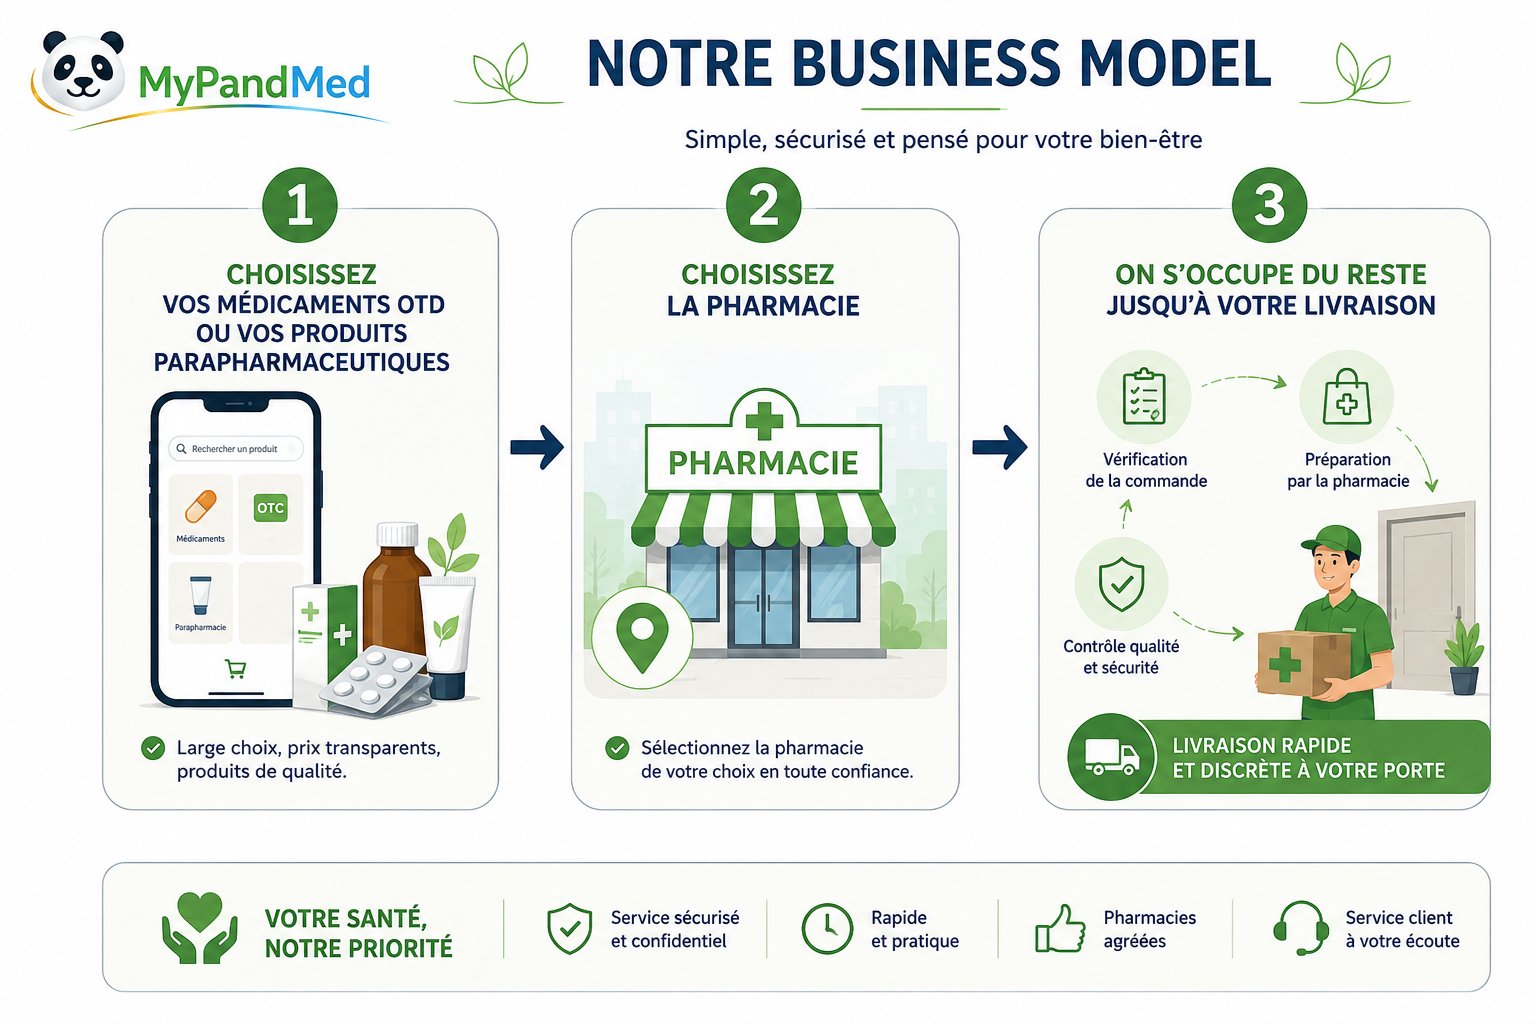
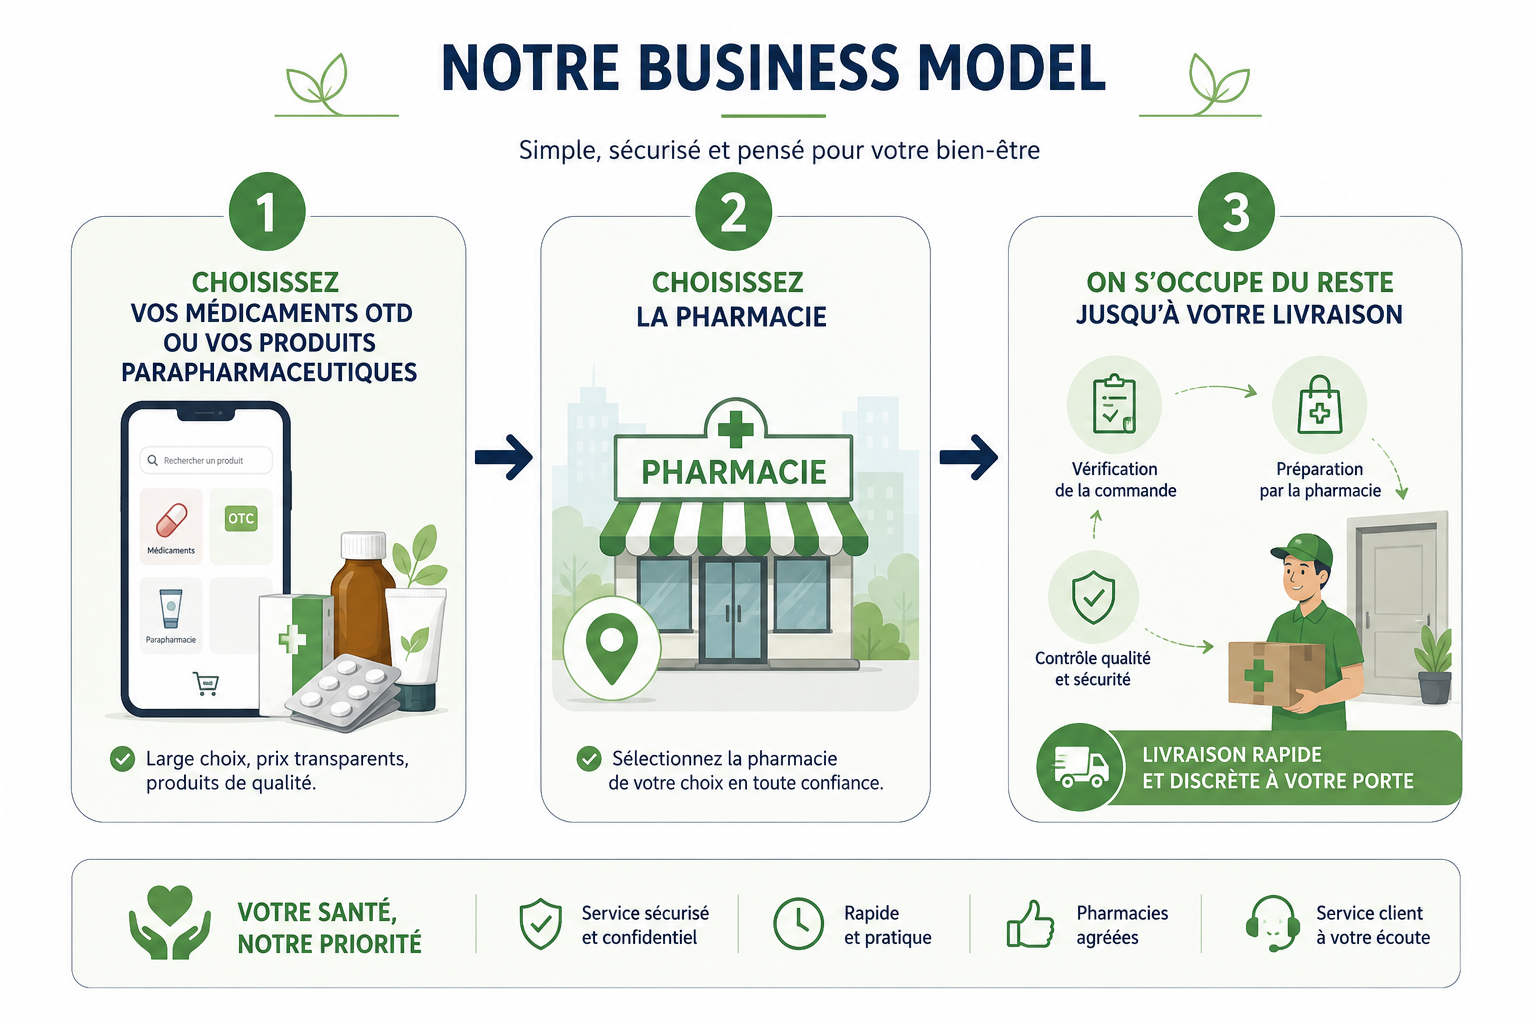
Ajuste la page d'accueil et met a jour le fond

diff --git a/client/src/styles.css b/client/src/styles.css
@@ -299,55 +299,14 @@ select {
   gap: 18px;
 }
 
-.store-hero h1 {
-  margin: 0;
-  font-size: clamp(28px, 3.8vw, 56px);
-  line-height: 1.12;
-  color: #ffffff;
-  text-align: left;
-  letter-spacing: -0.03em;
-  text-shadow: 0 18px 36px rgba(7, 27, 60, 0.42);
-}
-
-.store-hero-subtitle {
-  margin: 0;
-  max-width: 720px;
-  font-size: clamp(15px, 1.8vw, 24px);
-  font-weight: 700;
-  line-height: 1.28;
-  color: rgba(255, 255, 255, 0.96);
-  text-align: left;
-  letter-spacing: -0.02em;
-  text-shadow: 0 14px 30px rgba(7, 27, 60, 0.32);
-}
-
 .store-hero-visual {
   min-height: min(82vh, 980px);
-  padding: clamp(22px, 3vw, 38px);
   border-radius: 34px;
-  display: grid;
-  align-items: end;
   background:
-    linear-gradient(180deg, rgba(8, 31, 76, 0.12), rgba(8, 31, 76, 0.46)),
+    linear-gradient(180deg, rgba(255, 255, 255, 0.04), rgba(255, 255, 255, 0.16)),
     url("/home-business-model.png") center top/cover no-repeat;
   box-shadow: 0 24px 52px rgba(5, 16, 42, 0.18);
   overflow: hidden;
-}
-
-.store-hero-overlay {
-  width: min(100%, 760px);
-  padding: clamp(18px, 2.4vw, 28px);
-  border-radius: 28px;
-  display: grid;
-  gap: 18px;
-  background: linear-gradient(180deg, rgba(9, 33, 80, 0.34), rgba(8, 31, 76, 0.64));
-  backdrop-filter: blur(6px);
-  box-shadow: 0 18px 40px rgba(5, 16, 42, 0.22);
-}
-
-.store-hero-copy {
-  display: grid;
-  gap: 10px;
 }
 
 .hero-start-button,
@@ -361,7 +320,7 @@ select {
 
 .hero-start-button {
   min-height: 56px;
-  width: fit-content;
+  min-width: 220px;
   padding: 0 28px;
   border-radius: 18px;
   background: linear-gradient(180deg, #2e7ae2 0%, #1f5fb2 55%, #163f7f 100%);
@@ -1559,32 +1518,8 @@ select {
 
   .store-hero-visual {
     min-height: 60vh;
-    padding: 14px;
     border-radius: 20px;
     background-position: center top;
-  }
-
-  .store-hero-overlay {
-    width: 100%;
-    padding: 14px;
-    border-radius: 18px;
-    gap: 12px;
-  }
-
-  .store-hero h1 {
-    margin: 0 !important;
-    padding: 0 !important;
-    font-size: 22px !important;
-    line-height: 1.08 !important;
-    text-align: left !important;
-  }
-
-  .store-hero-subtitle {
-    margin: 0 !important;
-    padding: 0 !important;
-    font-size: 12px !important;
-    line-height: 1.3 !important;
-    text-align: left !important;
   }
 
   .hero-start-button,

diff --git a/client/src/App.jsx b/client/src/App.jsx
@@ -1440,18 +1440,11 @@ function StorefrontApp({ currentUser, onLogin, onLogout }) {
 
       <div className="store-body">
         <section className="store-hero">
-          <div className="store-hero-visual">
-            <div className="store-hero-overlay">
-              <div className="store-hero-copy">
-                <h1>Votre pharmacie, simplement.</h1>
-                <p className="store-hero-subtitle">Choisissez vos produits, trouvez votre pharmacie et faites-vous livrer en toute confiance.</p>
-              </div>
-              <button type="button" className="hero-start-button" onClick={scrollToCatalog}>
-                Commencer ici
-              </button>
-            </div>
-          </div>
+          <div className="store-hero-visual" />
           <div className="hero-bottom-actions">
+            <button type="button" className="hero-start-button" onClick={scrollToCatalog}>
+              Commencer ici
+            </button>
             <button type="button" className="hero-bottom-button driver" onClick={() => setDriverModalOpen(true)} title="Devenir Livreur" aria-label="Devenir Livreur">
               Devenir Livreur
             </button>